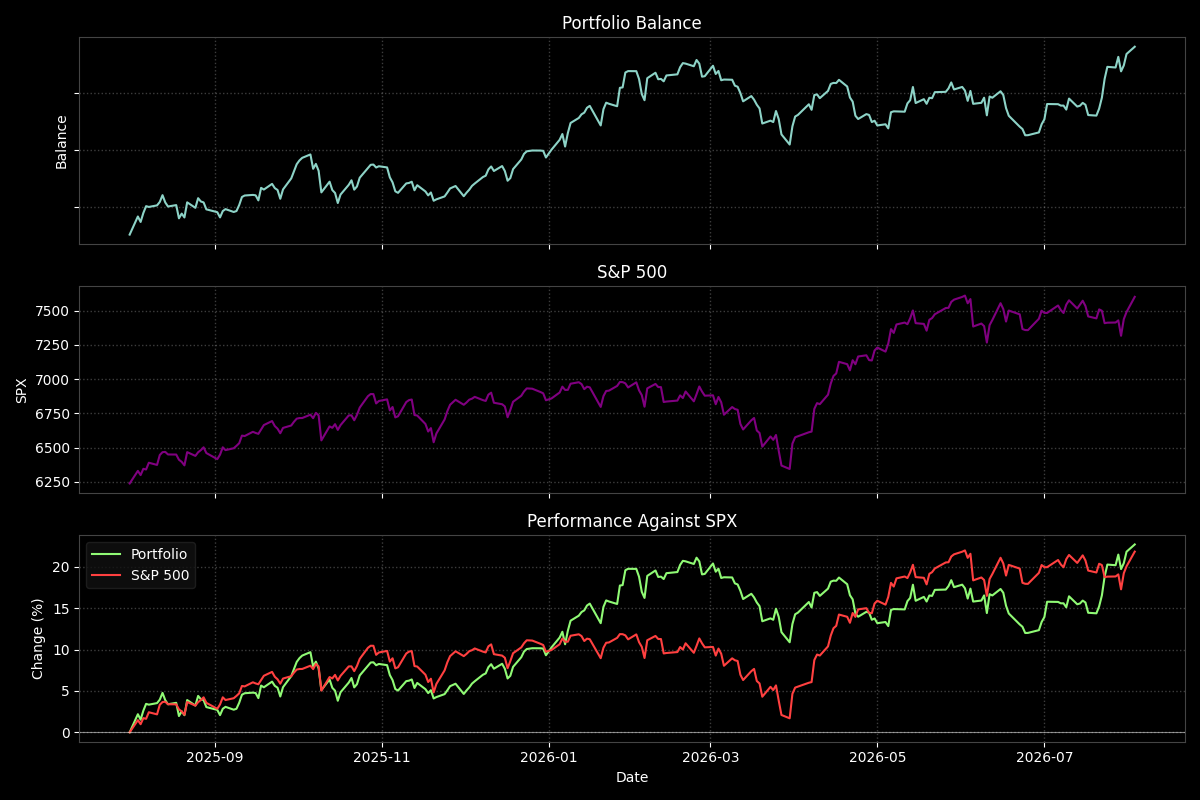
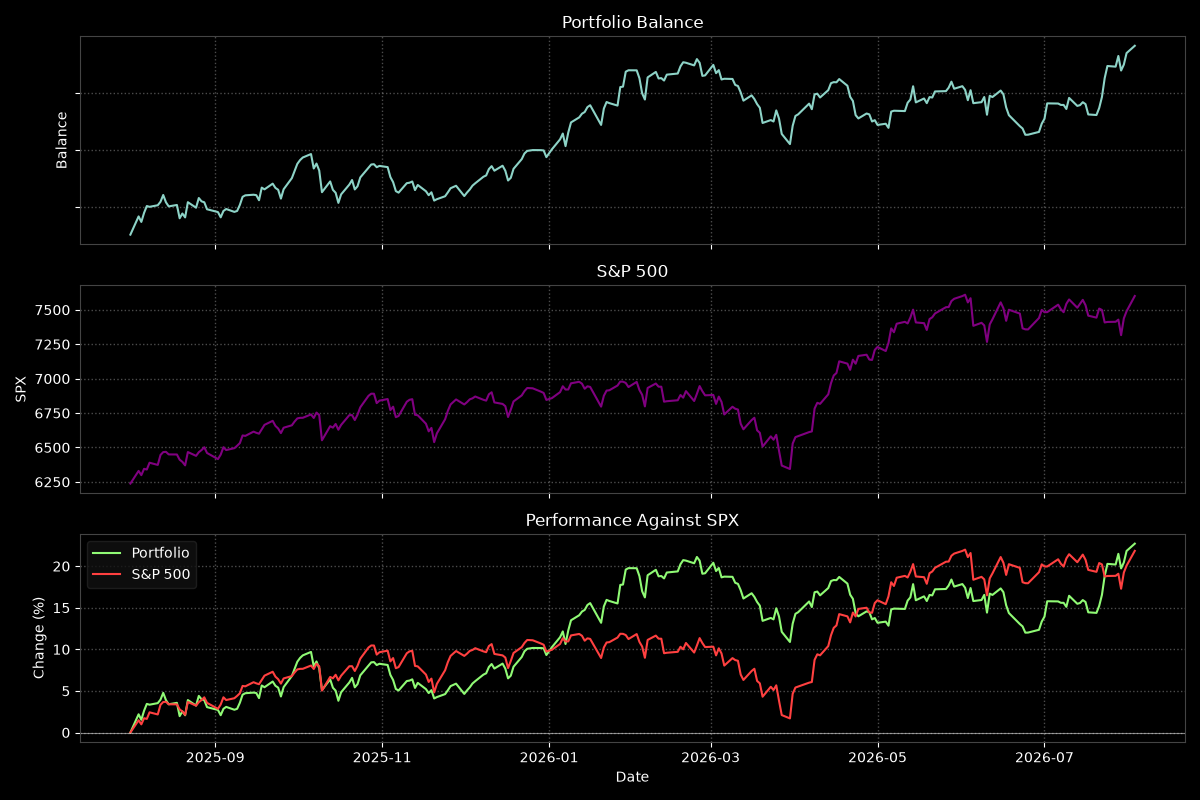
fix: updated gitignore and grid color

diff --git a/analysis.py b/analysis.py
@@ -14,7 +14,7 @@ plt.rcParams.update({
     "axes.labelcolor": "white",
     "xtick.color": "white",
     "ytick.color": "white",
-    "grid.color": "#CCCCCC",
+    "grid.color": "#ffffff",
     "legend.facecolor": "#111111",
     "legend.edgecolor": "#222222",
     "font.size": 10,
